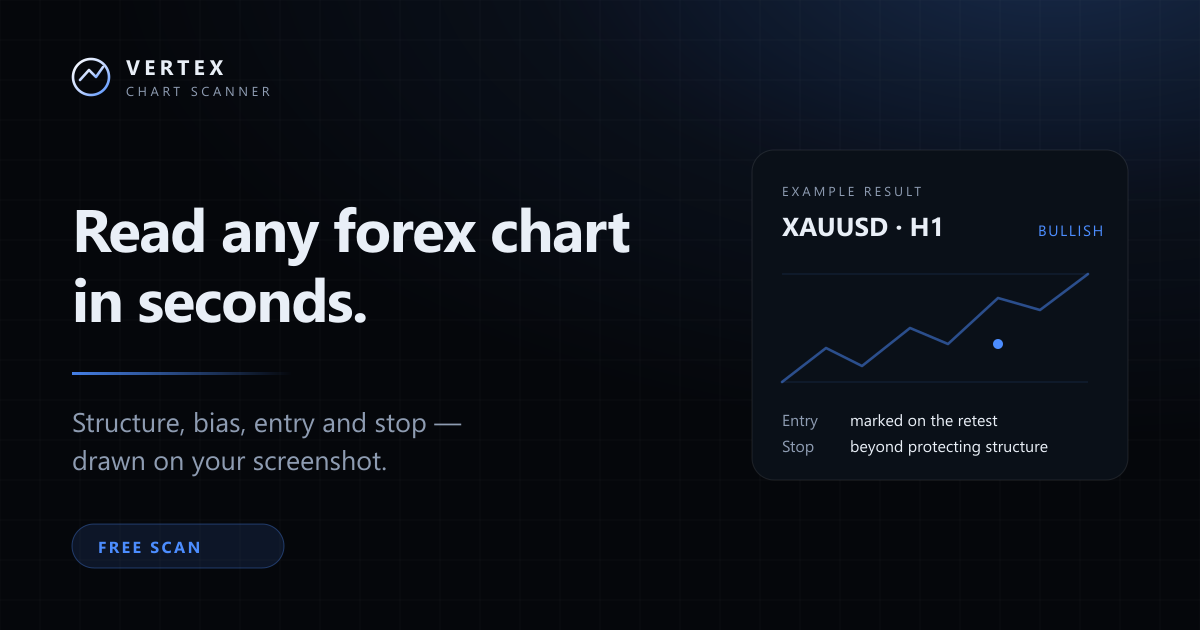
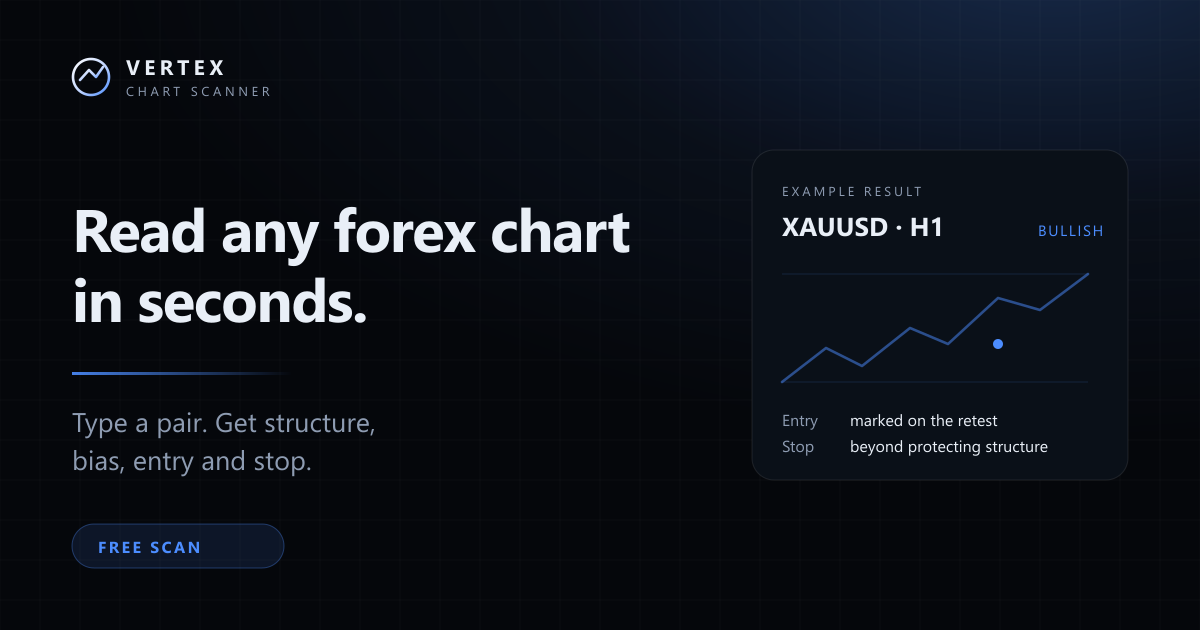
Match the preview card wording to the hero

Changed region(s): [[0.0617, 0.6635, 0.37, 0.6937], [0.0617, 0.7238, 0.3392, 0.754]]

diff --git a/pages/landing.html b/pages/landing.html
@@ -30,12 +30,12 @@
 <meta property="og:image" content="https://vertex-9s4c.onrender.com/og-image.png" />
 <meta property="og:image:width" content="1200" />
 <meta property="og:image:height" content="630" />
-<meta property="og:image:alt" content="Vertex Chart Scanner: read any forex chart in seconds, with structure, entry and stop drawn on the screenshot." />
+<meta property="og:image:alt" content="Vertex Chart Scanner: read any forex chart in seconds, with structure, bias, entry and stop for any pair." />
 <meta name="twitter:card" content="summary_large_image" />
 <meta name="twitter:title" content="Vertex Chart Scanner · Read any forex chart in seconds" />
 <meta name="twitter:description" content="Type a pair and get an instant AI read of bias, market structure, key levels, entries, stop loss and take profit — no screenshot needed." />
 <meta name="twitter:image" content="https://vertex-9s4c.onrender.com/og-image.png" />
-<meta name="twitter:image:alt" content="Vertex Chart Scanner: read any forex chart in seconds, with structure, entry and stop drawn on the screenshot." />
+<meta name="twitter:image:alt" content="Vertex Chart Scanner: read any forex chart in seconds, with structure, bias, entry and stop for any pair." />
 <link rel="preconnect" href="https://fonts.googleapis.com" />
 <link rel="preconnect" href="https://fonts.gstatic.com" crossorigin />
 <link href="https://fonts.googleapis.com/css2?family=IBM+Plex+Mono:wght@400;500;600&family=Inter+Tight:wght@500;600;700;800&family=Inter:wght@400;500;600&display=swap" rel="stylesheet" />

diff --git a/pages/mentorship.html b/pages/mentorship.html
@@ -26,12 +26,12 @@
 <meta property="og:image" content="https://vertex-9s4c.onrender.com/og-image.png" />
 <meta property="og:image:width" content="1200" />
 <meta property="og:image:height" content="630" />
-<meta property="og:image:alt" content="Vertex Chart Scanner: read any forex chart in seconds, with structure, entry and stop drawn on the screenshot." />
+<meta property="og:image:alt" content="Vertex Chart Scanner: read any forex chart in seconds, with structure, bias, entry and stop for any pair." />
 <meta name="twitter:card" content="summary_large_image" />
 <meta name="twitter:title" content="Mentorship · Vertex Chart Scanner" />
 <meta name="twitter:description" content="1-on-1 mentorship: weekly calls, chart reviews, a personal risk plan, and direct access while you learn to read the market yourself." />
 <meta name="twitter:image" content="https://vertex-9s4c.onrender.com/og-image.png" />
-<meta name="twitter:image:alt" content="Vertex Chart Scanner: read any forex chart in seconds, with structure, entry and stop drawn on the screenshot." />
+<meta name="twitter:image:alt" content="Vertex Chart Scanner: read any forex chart in seconds, with structure, bias, entry and stop for any pair." />
 <script type="application/ld+json">
 {
   "@context": "https://schema.org",
